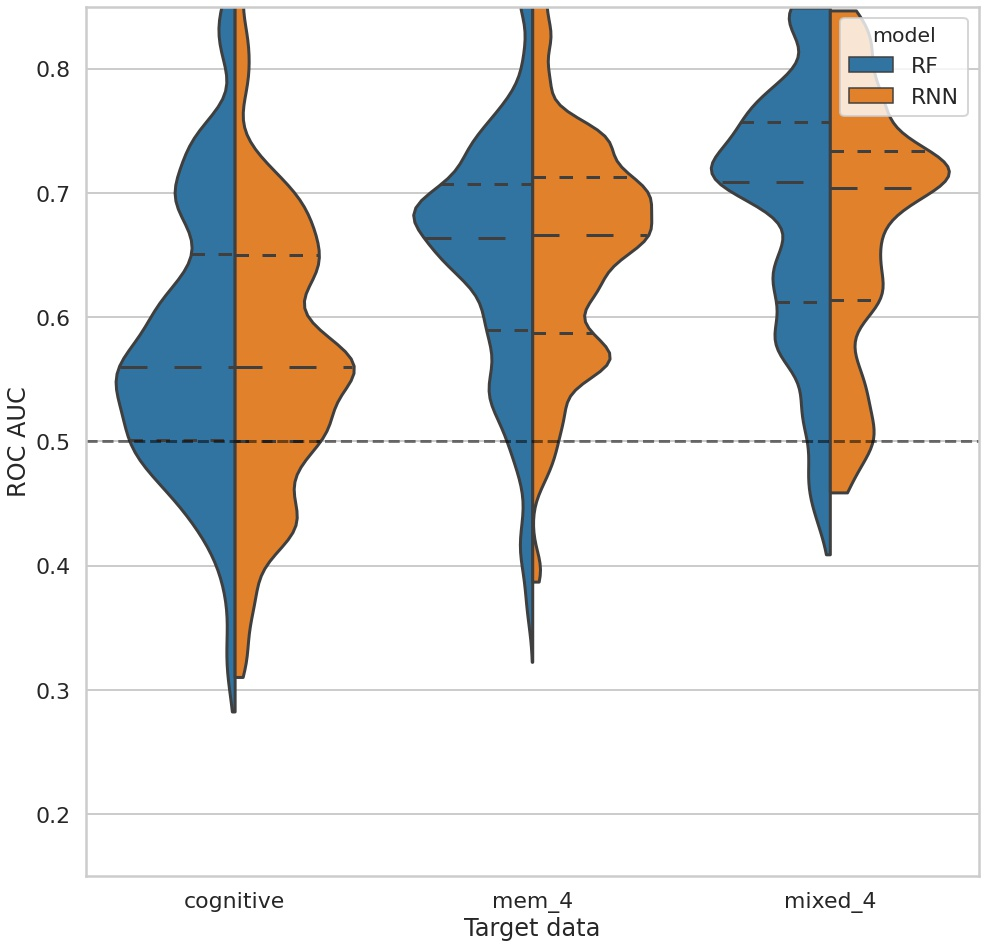
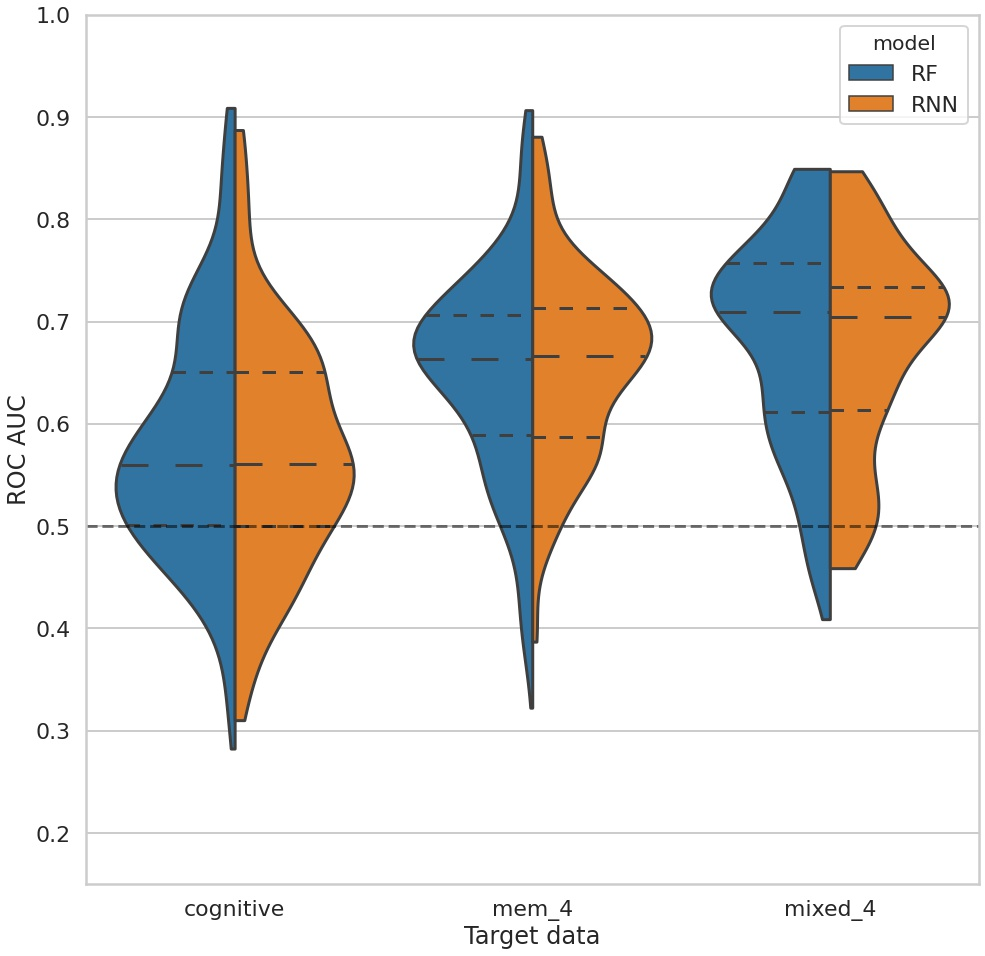
update

diff --git a/scripts/plot LOO.py b/scripts/plot LOO.py
@@ -59,7 +59,7 @@ ax = sns.violinplot(y = 'experiment',
                     data = df_plot,
                     ax = ax,
                     **xargs)
-ax.set(xlim = (0.3,1.))
+ax.set(xlim = (0.3,1.),xlabel = 'ROC AUC',ylabel = 'Study')
 ax.axvline(0.5,linestyle = '--',color = 'black',alpha = 0.5,)
 fig.savefig(os.path.join(figure_dir,
                          'RNN vs RF LOO.jpeg'),
@@ -70,7 +70,7 @@ unique_experiment = pd.unique(df_plot['experiment'])
 fig,axes = plt.subplots(figsize = (28,28),
                         nrows = 4,
                         ncols = int(unique_experiment.shape[0] / 4),)
-for ax,experiment in zip(axes.flatten(),unique_experiment):
+for ii,(ax,experiment) in enumerate(zip(axes.flatten(),unique_experiment)):
     df_sub = df_plot[df_plot['experiment'] == experiment].sort_values(['model'])
     df_sub_plot = df_sub.melt(
                           id_vars = ['fold','sub_name','model','experiment',],
@@ -101,6 +101,10 @@ for ax,experiment in zip(axes.flatten(),unique_experiment):
     ax.set(xlabel = '',
            ylabel = '',
            title = experiment,)
+    if ii % 4 == 0:
+        ax.set(ylabel = 'A.U.')
+    if ii >=12:
+        ax.set(xlabel = 'Time Steps')
     handles,labels = ax.get_legend_handles_labels()
     ax.get_legend().remove()
 fig.legend(handles[2:],labels[2:],loc = (0.91,0.475),title = '')

diff --git a/scripts/plot_CD.py b/scripts/plot_CD.py
@@ -51,7 +51,8 @@ xargs = dict(hue = 'model',
              split = True,
              inner = 'quartile',
              cut = 0,
-             scale = 'width',)
+             scale = 'width',
+             bw = .35,)
 
 
 fig,ax = plt.subplots(figsize = (16,16))
@@ -61,7 +62,7 @@ ax = sns.violinplot(x = 'source',
                     ax = ax,
                     **xargs,
                     )
-ax.set(ylim = (0.15,0.85))
+ax.set(ylim = (0.15,1.))
 ax.axhline(0.5,linestyle = '--',color = 'black',alpha = 0.5,)
 ax.set(xlabel = 'Target data',ylabel = 'ROC AUC',)
 fig.savefig(os.path.join(figure_dir,'cross domain decoding scores.jpeg',
